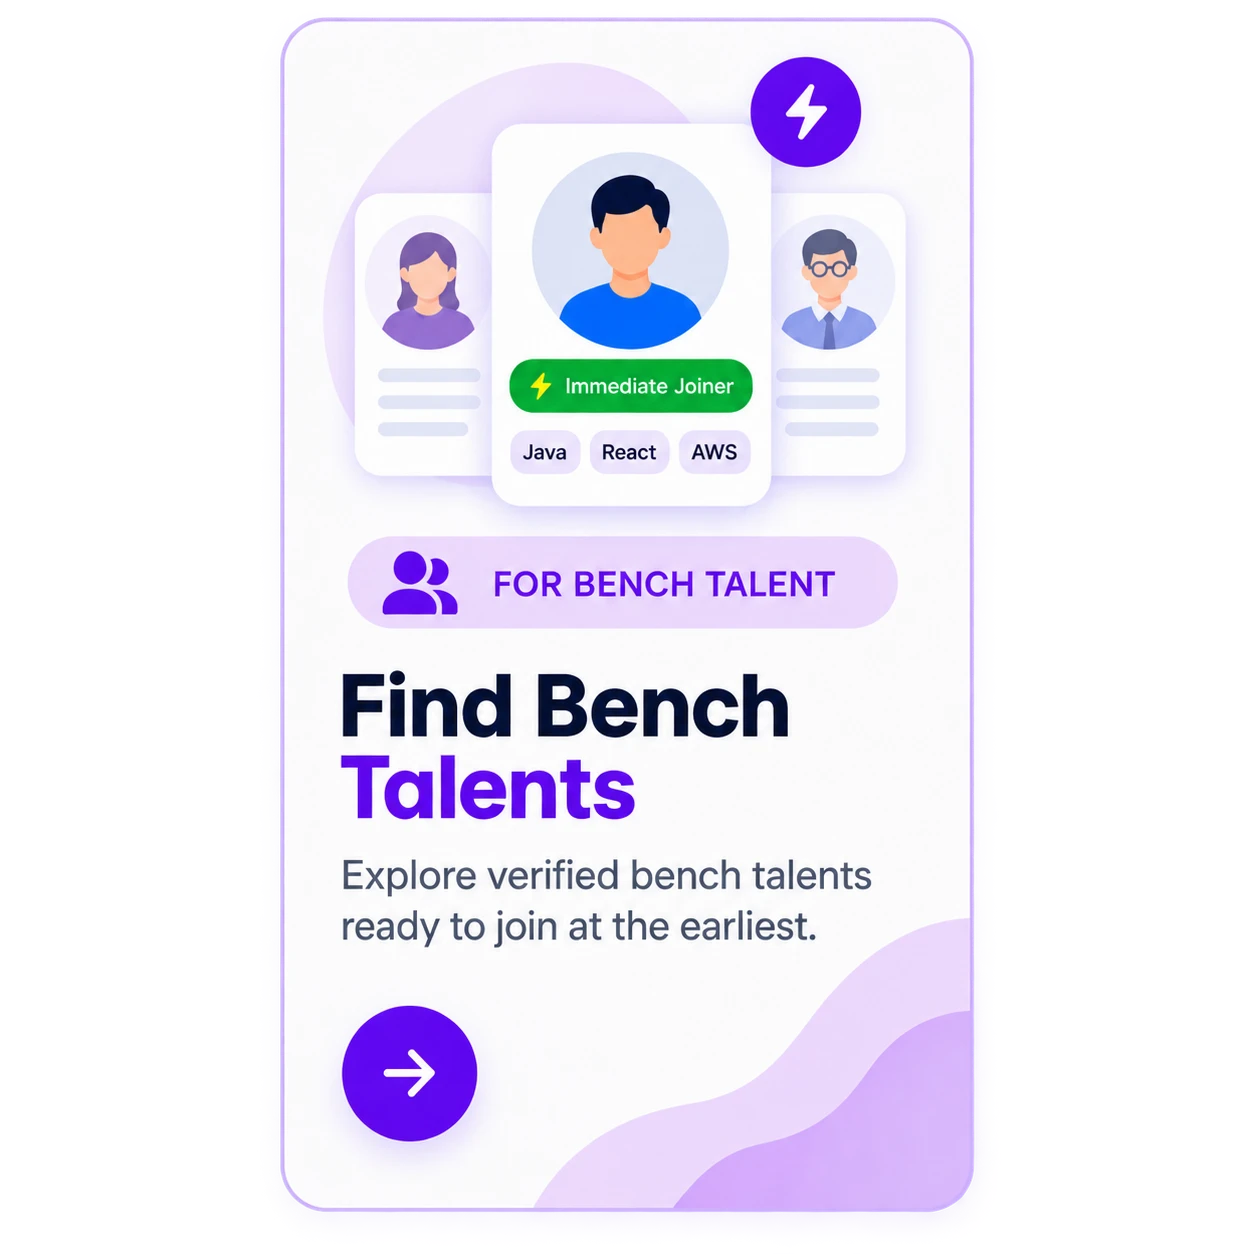
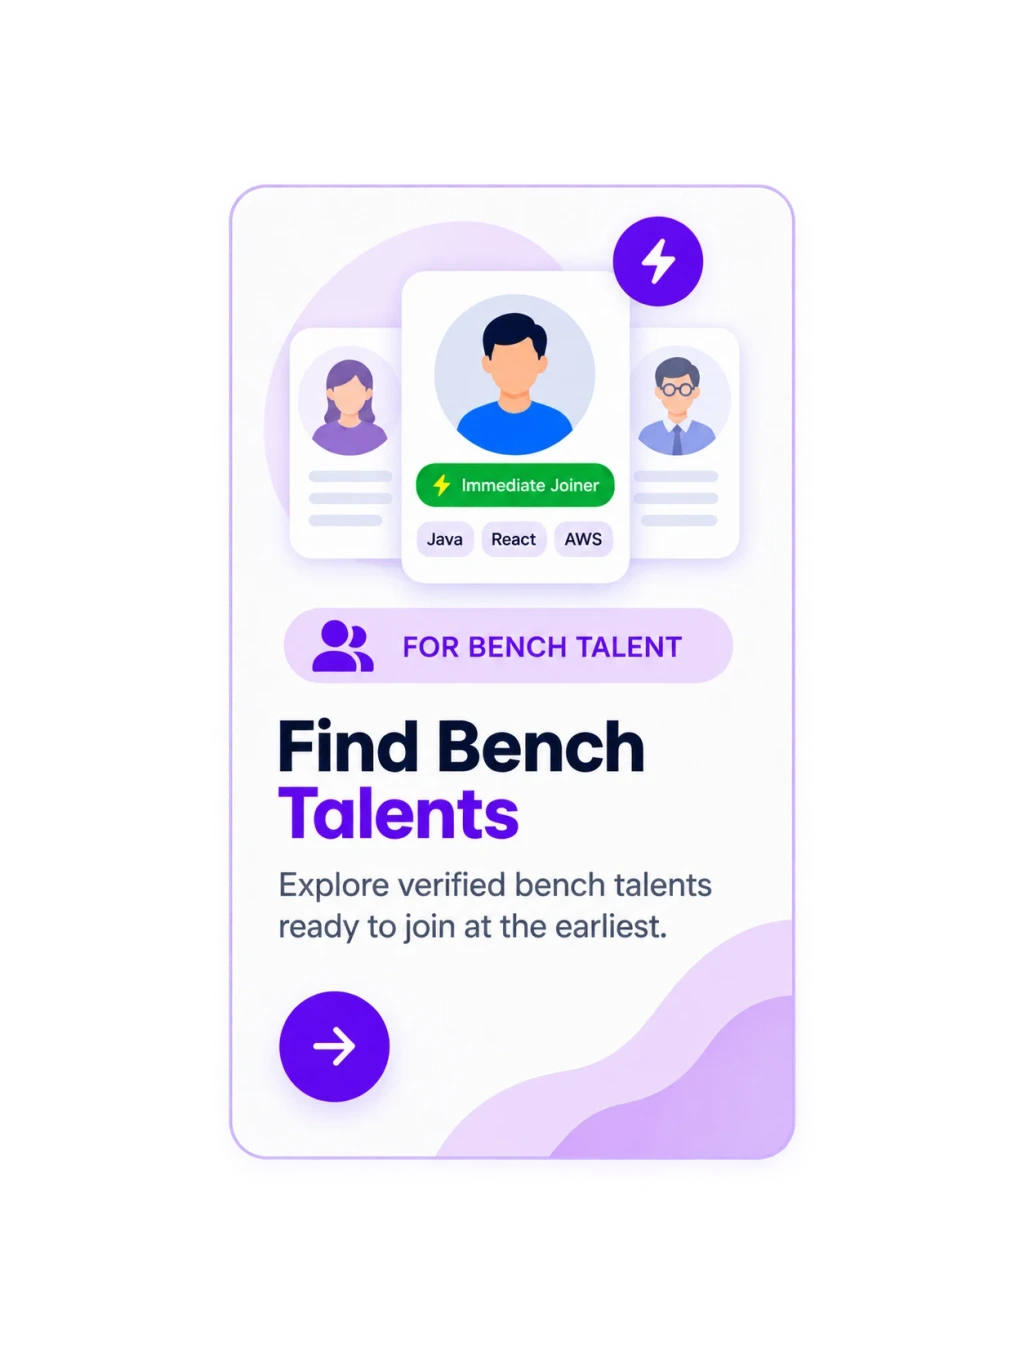
login

diff --git a/resources/views/auth/login.blade.php b/resources/views/auth/login.blade.php
@@ -128,25 +128,24 @@ body { background: var(--bg-pg); font-family: 'Poppins', system-ui, -apple-syste
 }
 
 /* ── 3 Image Cards (art-directed assets, no CSS rebuild) ──── */
+/* All 3 cards are normalized to 1024×1365 (3:4 portrait) at the source level,
+   so the row renders as 3 identical portrait slots. */
 .jw-cards {
     display: grid;
     grid-template-columns: repeat(3, 1fr);
-    gap: 8px;
+    gap: 10px;
     margin-bottom: 16px;
     position: relative;
     align-items: stretch;
-    height: 300px;          /* fixed row height — equalizes all 3 cards */
 }
 .jw-card-link {
-    display: flex;
-    align-items: center;
-    justify-content: center;
+    display: block;
     text-decoration: none;
     color: inherit;
     border-radius: 0;
     background: transparent;
     padding: 0;
-    height: 100%;
+    aspect-ratio: 3 / 4;
     transition: transform .2s ease;
 }
 .jw-card-link:hover,
@@ -156,14 +155,13 @@ body { background: var(--bg-pg); font-family: 'Poppins', system-ui, -apple-syste
 }
 .jw-card-img {
     display: block;
-    max-width: 100%;
-    max-height: 100%;
-    width: auto;
-    height: auto;
-    margin: 0 auto;
+    width: 100%;
+    height: 100%;
+    margin: 0;
     object-fit: contain;
     object-position: center center;
-    /* Never distort, crop, or stretch the art. */
+    /* Contain + center: scales the image to fit the slot without cropping.
+       All 3 cards are already 3:4 portrait at source, so they fill edge-to-edge. */
     user-select: none;
     -webkit-user-drag: none;
 }
@@ -507,7 +505,7 @@ body { background: var(--bg-pg); font-family: 'Poppins', system-ui, -apple-syste
     .jw-hero { margin: 12px 0 10px; }
     .jw-hero p { font-size: 12.5px; }
     .jw-left { padding: 14px 28px 12px; }
-    .jw-cards { gap: 8px; margin-bottom: 12px; height: 260px; }
+    .jw-cards { gap: 8px; margin-bottom: 12px; }
     .jw-stats { padding: 10px 14px; }
     .jw-stat { gap: 8px; }
     .jw-stat-ico { width: 26px; height: 26px; }
@@ -534,8 +532,7 @@ body { background: var(--bg-pg); font-family: 'Poppins', system-ui, -apple-syste
     .jw-left { padding: 24px; }
     .jw-cards {
         grid-template-columns: 1fr 1fr;
-        gap: 12px;
-        height: 280px;
+        gap: 14px;
     }
     .jw-card-link:last-child { grid-column: span 2; max-width: 50%; justify-self: center; }
     .jw-stats { flex-wrap: wrap; }
@@ -551,8 +548,7 @@ body { background: var(--bg-pg); font-family: 'Poppins', system-ui, -apple-syste
     .jw-cards {
         grid-template-columns: none;
         display: flex;
-        gap: 12px;
-        height: 240px;
+        gap: 14px;
         overflow-x: auto;
         scroll-snap-type: x mandatory;
         -webkit-overflow-scrolling: touch;
@@ -626,7 +622,7 @@ if (session('status')) {
             <img class="jw-card-img"
                  src="{{ asset('img/cards/find-trusted-agencies.webp') }}"
                  alt="Find Trusted Agencies for Companies"
-                 width="1024" height="1536"
+                 width="1024" height="1365"
                  decoding="async">
         </a>
 
@@ -635,7 +631,7 @@ if (session('status')) {
             <img class="jw-card-img"
                  src="{{ asset('img/cards/find-hiring-opportunities.webp') }}"
                  alt="Find Hiring Opportunities for Recruitment Agencies"
-                 width="1254" height="1254"
+                 width="1024" height="1365"
                  decoding="async">
         </a>
 
@@ -644,7 +640,7 @@ if (session('status')) {
             <img class="jw-card-img"
                  src="{{ asset('img/cards/find-bench-talents.webp') }}"
                  alt="Find Bench Talents and Immediate Joiners"
-                 width="1254" height="1254"
+                 width="1024" height="1365"
                  decoding="async">
         </a>
     </div>
